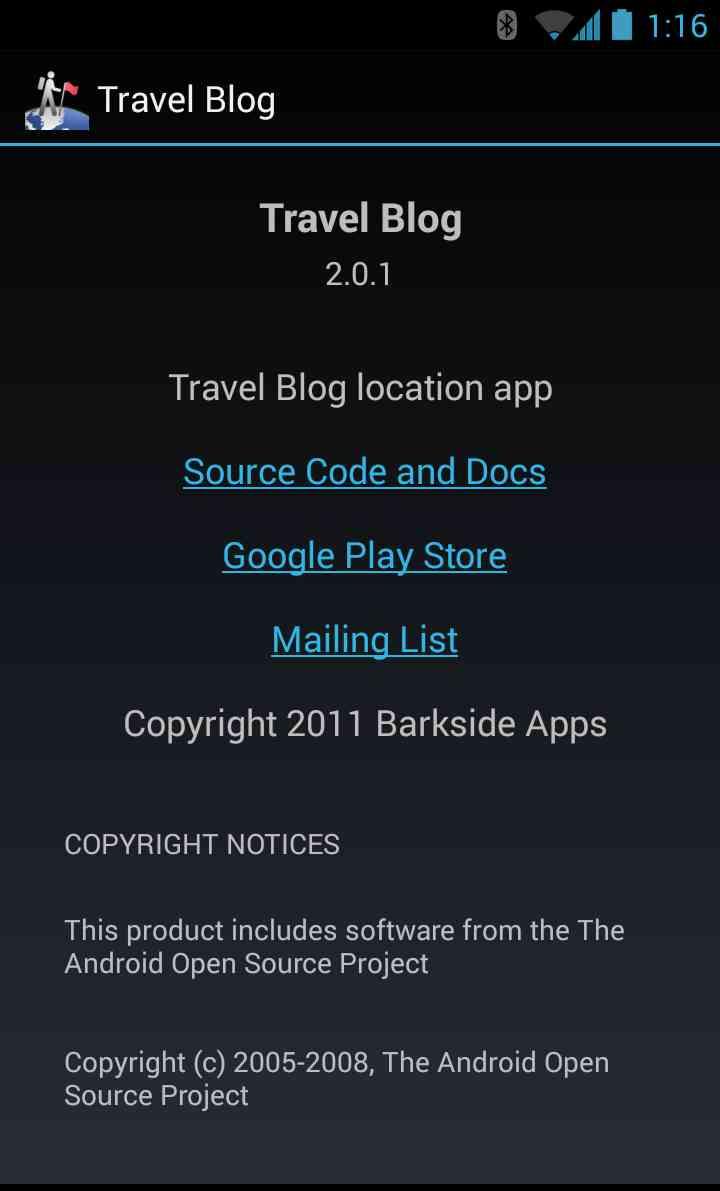
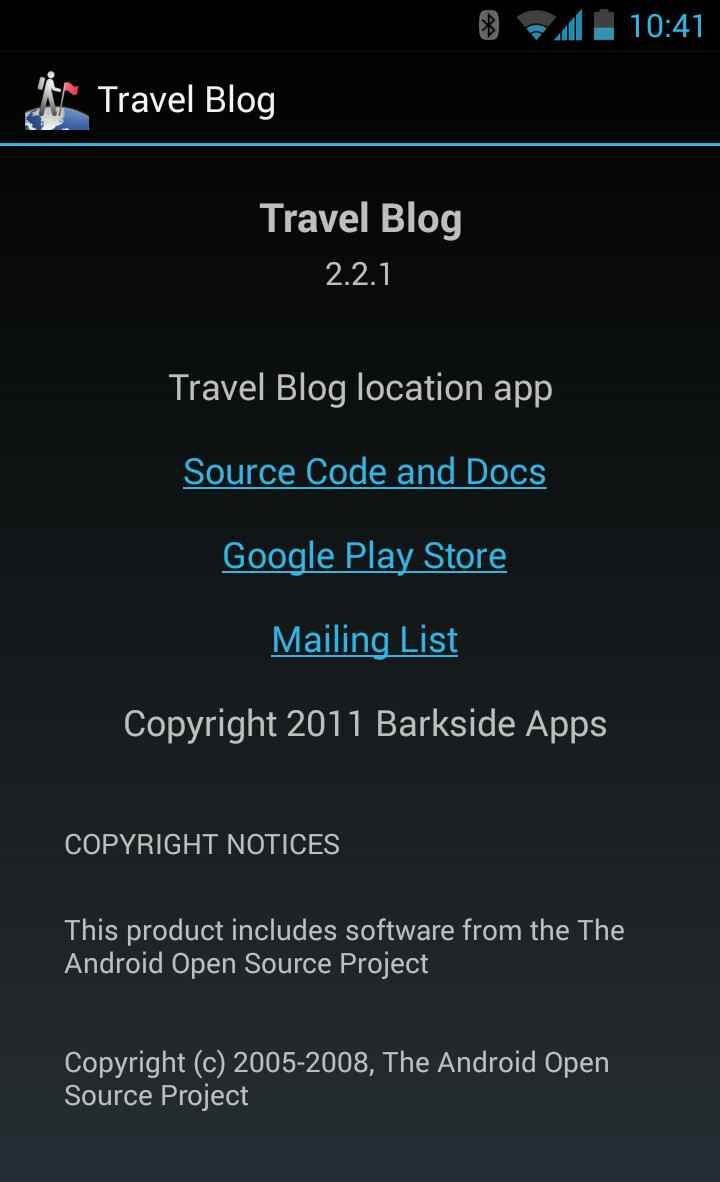
Added screen shots of release 2.2 activities.
Also fixed some issues with widget upgrades and removed margins from map displays, looks better if map uses all available screen area.

diff --git a/src/com/barkside/travellocblog/WidgetConfigure.java b/src/com/barkside/travellocblog/WidgetConfigure.java
@@ -76,12 +76,13 @@ public class WidgetConfigure extends ActionBarActivity {
       mBtnOpenTrip = (Button) findViewById(R.id.open_trip);
       mBtnDone = (Button) findViewById(R.id.use_trip);
 
-      // Use the layout config to determine mUseSelected
-      RadioButton radio_option = (RadioButton) findViewById(R.id.option_selected);
-      updateUseSelected(radio_option.isChecked());
+      // Determine while file to use, assuming mUseSelected == true
+      updateFilename(getKeyTripFile(this, mAppWidgetId)); // updates mFilename
 
-      // Finally: attempt to find and display this widget's trip file name.
-      updateFilename(getKeyTripFile(this, mAppWidgetId));
+      // Use the layout config to determine actual value of mUseSelected
+      RadioButton radio_option = (RadioButton) findViewById(R.id.option_selected);
+      boolean useSelected = radio_option.isChecked();
+      updateUseSelected(useSelected); // updates mUseSelected
    }
 
    @Override
@@ -179,10 +180,15 @@ public class WidgetConfigure extends ActionBarActivity {
       mBtnDone.setText(String.format(doneFormat, doneText));    
    }
    
-   // Update name of currently selected file, and also show it in action bar
+   // Update name of currently selected file, and display it in the UI
+   // If there is no preference saved, uses the default trip name
    private void updateFilename(String filename) {
+      if (filename == null) {
+         filename = this.getString(R.string.default_trip);
+      }
+
       mFilename = filename;
-      // If necessary update ActionBar title here. Not doing that, since it is
+      // If necessary update ActionBar subtitle here. Not doing that, since it is
       // difficult to notice this in this activity, so created mSelectedTripText
       // instead to display the file name.
       updateUseSelected(true);
@@ -208,7 +214,7 @@ public class WidgetConfigure extends ActionBarActivity {
       Log.d(TAG, "Widget set trip name key: " + widgetKey);
       Log.d(TAG, "Widget set trip name value: " + name);
 
-      editor.putString(widgetKey, name);
+      editor.putString(widgetKey, name); // name can be null
       editor.commit();
    }
 
@@ -221,9 +227,6 @@ public class WidgetConfigure extends ActionBarActivity {
       Log.d(TAG, "Widget get trip name key: " + widgetKey);
 
       String name = settings.getString(widgetKey, null);
-      if (name == null) {
-         name = context.getString(R.string.default_trip);
-      }
       return name;
    }
    

diff --git a/src/com/barkside/travellocblog/TravelLocWidget.java b/src/com/barkside/travellocblog/TravelLocWidget.java
@@ -1,7 +1,5 @@
 package com.barkside.travellocblog;
 
-import java.util.Arrays;
-
 import android.app.PendingIntent;
 import android.appwidget.AppWidgetManager;
 import android.appwidget.AppWidgetProvider;
@@ -32,14 +30,13 @@ public class TravelLocWidget extends AppWidgetProvider {
    public void onUpdate(Context context, AppWidgetManager appWidgetManager, int[] appWidgetIds) {
       final int N = appWidgetIds.length;
 
-      Log.i(TAG,  "onUpdate " + Arrays.asList(appWidgetIds));
-
       // Perform this loop procedure for each App Widget that belongs to this
       // provider
       for (int i = 0; i < N; i++) {
          int appWidgetId = appWidgetIds[i];
 
          String filename = WidgetConfigure.getKeyTripFile(context, appWidgetId);
+         Log.i(TAG,  "onUpdate " + appWidgetId + " filename: " + filename);
 
          TravelLocWidget.updateAppWidget(context, appWidgetManager,
                appWidgetId, filename);
